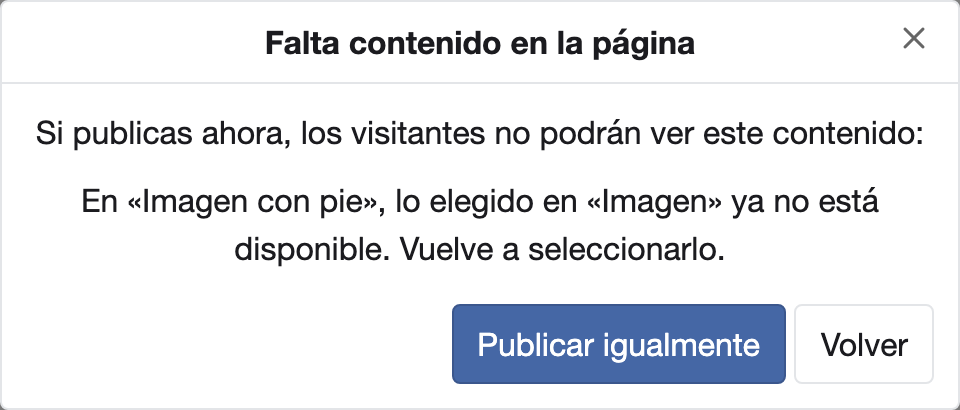
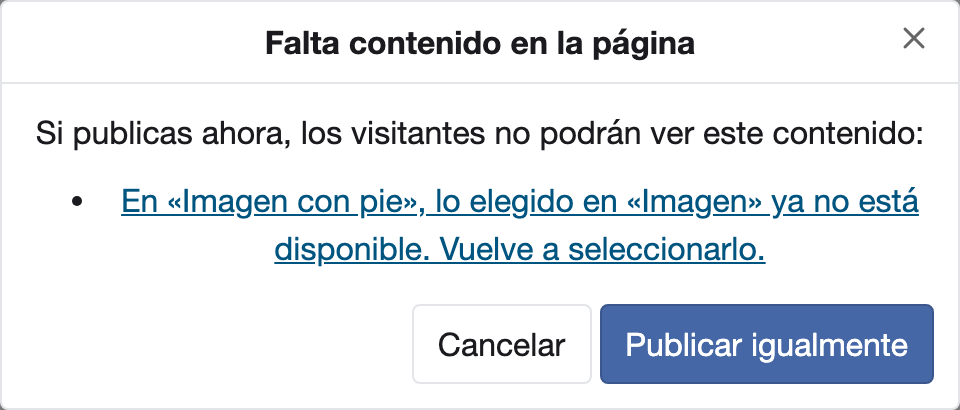
docs(portal): los diálogos con la acción por su nombre
La guía nombra «Cancelar» y la acción de cada diálogo, con la captura de publicar con algo que falta.

Changed region(s): [[0.4375, 0.7317, 1.0, 0.9366], [0.0625, 0.439, 0.9688, 0.5268], [0.25, 0.5561, 0.8125, 0.6439]]

diff --git a/docs/user-guide/regenerate-thumbnails.md b/docs/user-guide/regenerate-thumbnails.md
@@ -47,7 +47,7 @@ había descargado. Recarga la página sin la caché del navegador, con **Ctrl+F5
     ![La página Regenerar miniaturas, con lo que hace la acción, la elección de qué miniaturas se generan y el botón Regenerar ahora.](../assets/screenshots/es/regenerar-miniaturas/pagina.png){ width="638" }
 
 2. En **Qué miniaturas se generan**, deja **Solo las que faltan** o elige **También las que ya existen**.
-3. Pulsa **Regenerar ahora** y, en **Se iniciará el proceso**, pulsa **Aceptar**.
+3. Pulsa **Regenerar ahora** y, en **Se iniciará el proceso**, pulsa **Iniciar el proceso**.
 
 La página muestra el avance y, al terminar, el resultado, por ejemplo «Miniaturas generadas: 2. No se han podido generar: 0.
 Ya existían: 15.». Con **También las que ya existen**, dice además cuántas ha rehecho, cuántas no ha podido rehacer y cuántas

diff --git a/docs/user-guide/diffusion-portal/publish.md b/docs/user-guide/diffusion-portal/publish.md
@@ -44,7 +44,7 @@ valores que no son válidos y vuelve a publicar.».
 
 Si a la página le falta algún dato, o usa una imagen, un vídeo o un fichero que ya no está, antes de publicar sale un
 diálogo con cada bloque y cada campo. Pulsa una línea para ir a su campo. **Publicar igualmente** publica la página, y los
-visitantes no verán ese contenido. **Volver** no publica, y lo que habías guardado sigue en el borrador.
+visitantes no verán ese contenido. **Cancelar** no publica, y lo que habías guardado sigue en el borrador.
 
 ![El diálogo Falta contenido en la página.](../../assets/screenshots/es/diffusion-portal/publish/missing-content.png){ width="480" }
 
